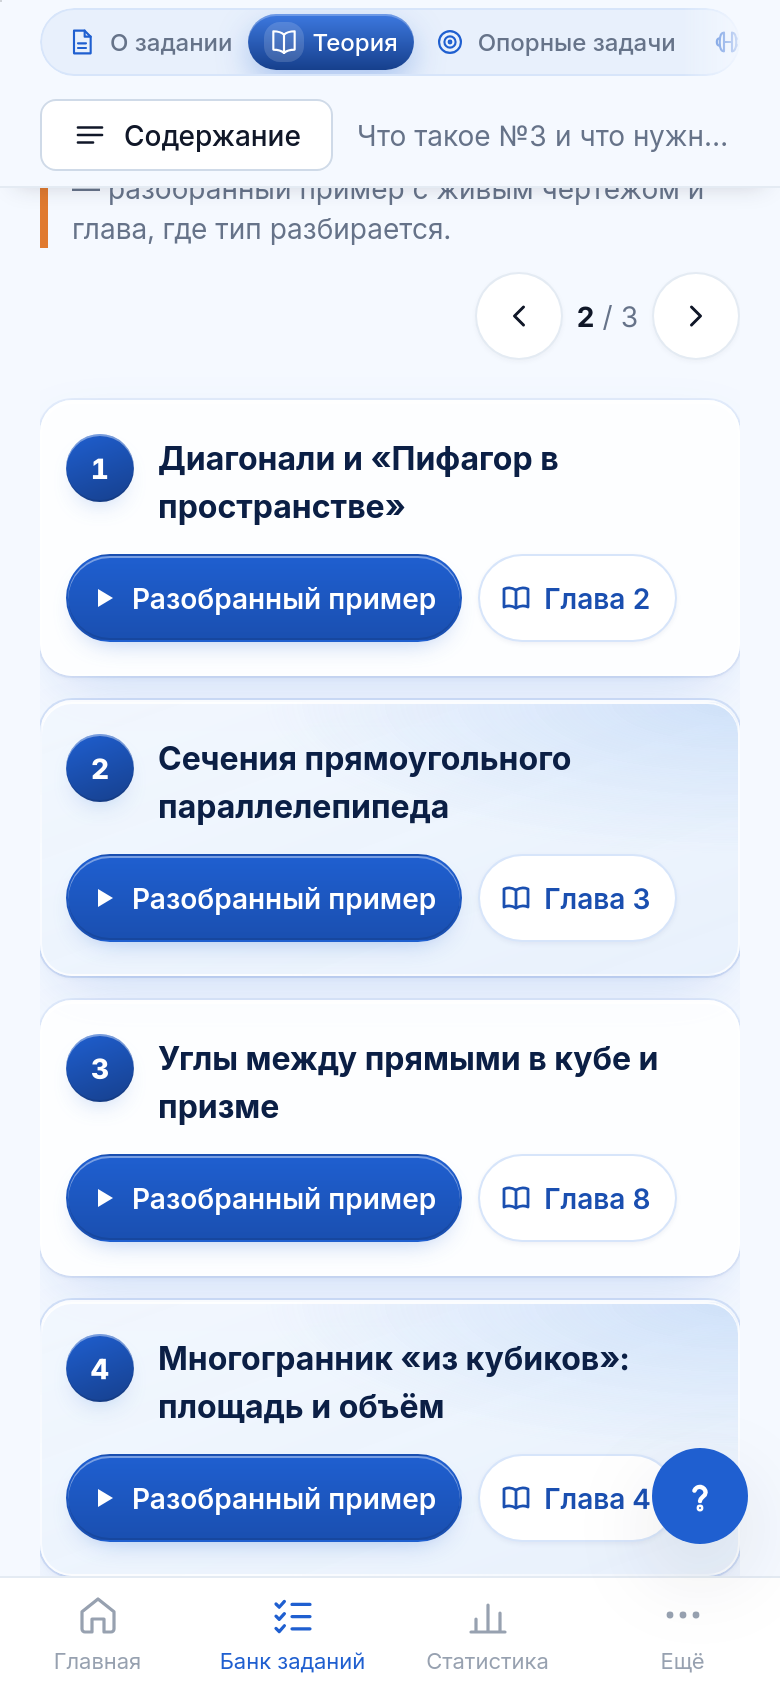
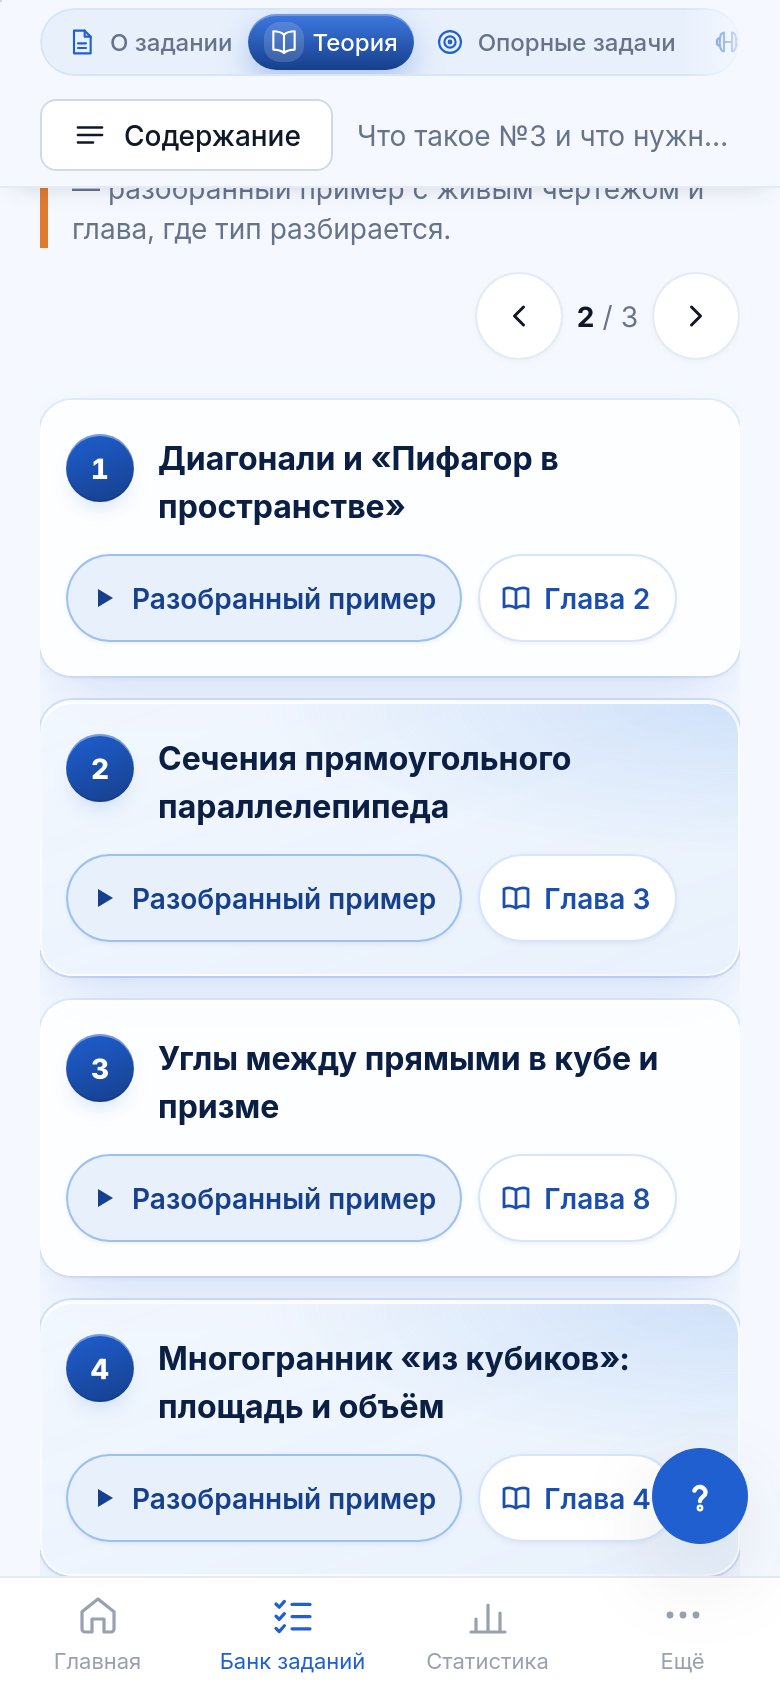
Карточки типов: «Разобранный пример» — светлой пилюлей вместо залитой
На пятнадцати карточках подряд тёмно-синие кнопки были слишком
плотными. Теперь голубая заливка --blue-100, кромка --blue-300,
текст --blue-800 (около 9:1); «Глава» остаётся белой. Снимки обновлены.

Claude-Session: https://claude.ai/code/session_01LvRoNiRN2CXjHeebGbbac1

diff --git a/app/src/components/ui/kartochki-tipov.css b/app/src/components/ui/kartochki-tipov.css
@@ -192,12 +192,13 @@
     transform var(--dur-hover) ease;
 }
 .tipk__ssylka--primer {
-  /* Не --gloss: его светлый верх (--blue-400) под белым текстом
-     ниже AA. От --blue-600 к --blue-700 — 5,9:1 и выше. */
-  border-color: transparent;
-  background: linear-gradient(180deg, var(--blue-600), var(--blue-700));
-  box-shadow: var(--gloss-shadow-soft);
-  color: var(--white);
+  /* Спокойная пилюля: на пятнадцати карточках подряд залитые синие
+     кнопки слишком плотные. Голубая заливка и тёмно-синий текст
+     (--blue-800 на --blue-100 — около 9:1); от белой «Главы» её
+     отличают тон и иконка. */
+  border-color: var(--blue-300);
+  background: var(--blue-100);
+  color: var(--blue-800);
 }
 .tipk__ik {
   flex: none;
@@ -210,9 +211,8 @@
     background: var(--blue-50);
   }
   .tipk__ssylka--primer:hover {
-    border-color: transparent;
-    background: linear-gradient(180deg, var(--blue-600), var(--blue-800));
-    box-shadow: var(--gloss-shadow-soft-hover);
+    border-color: var(--color-primary);
+    background: var(--blue-200);
   }
 }
 .tipk__ssylka:active {
